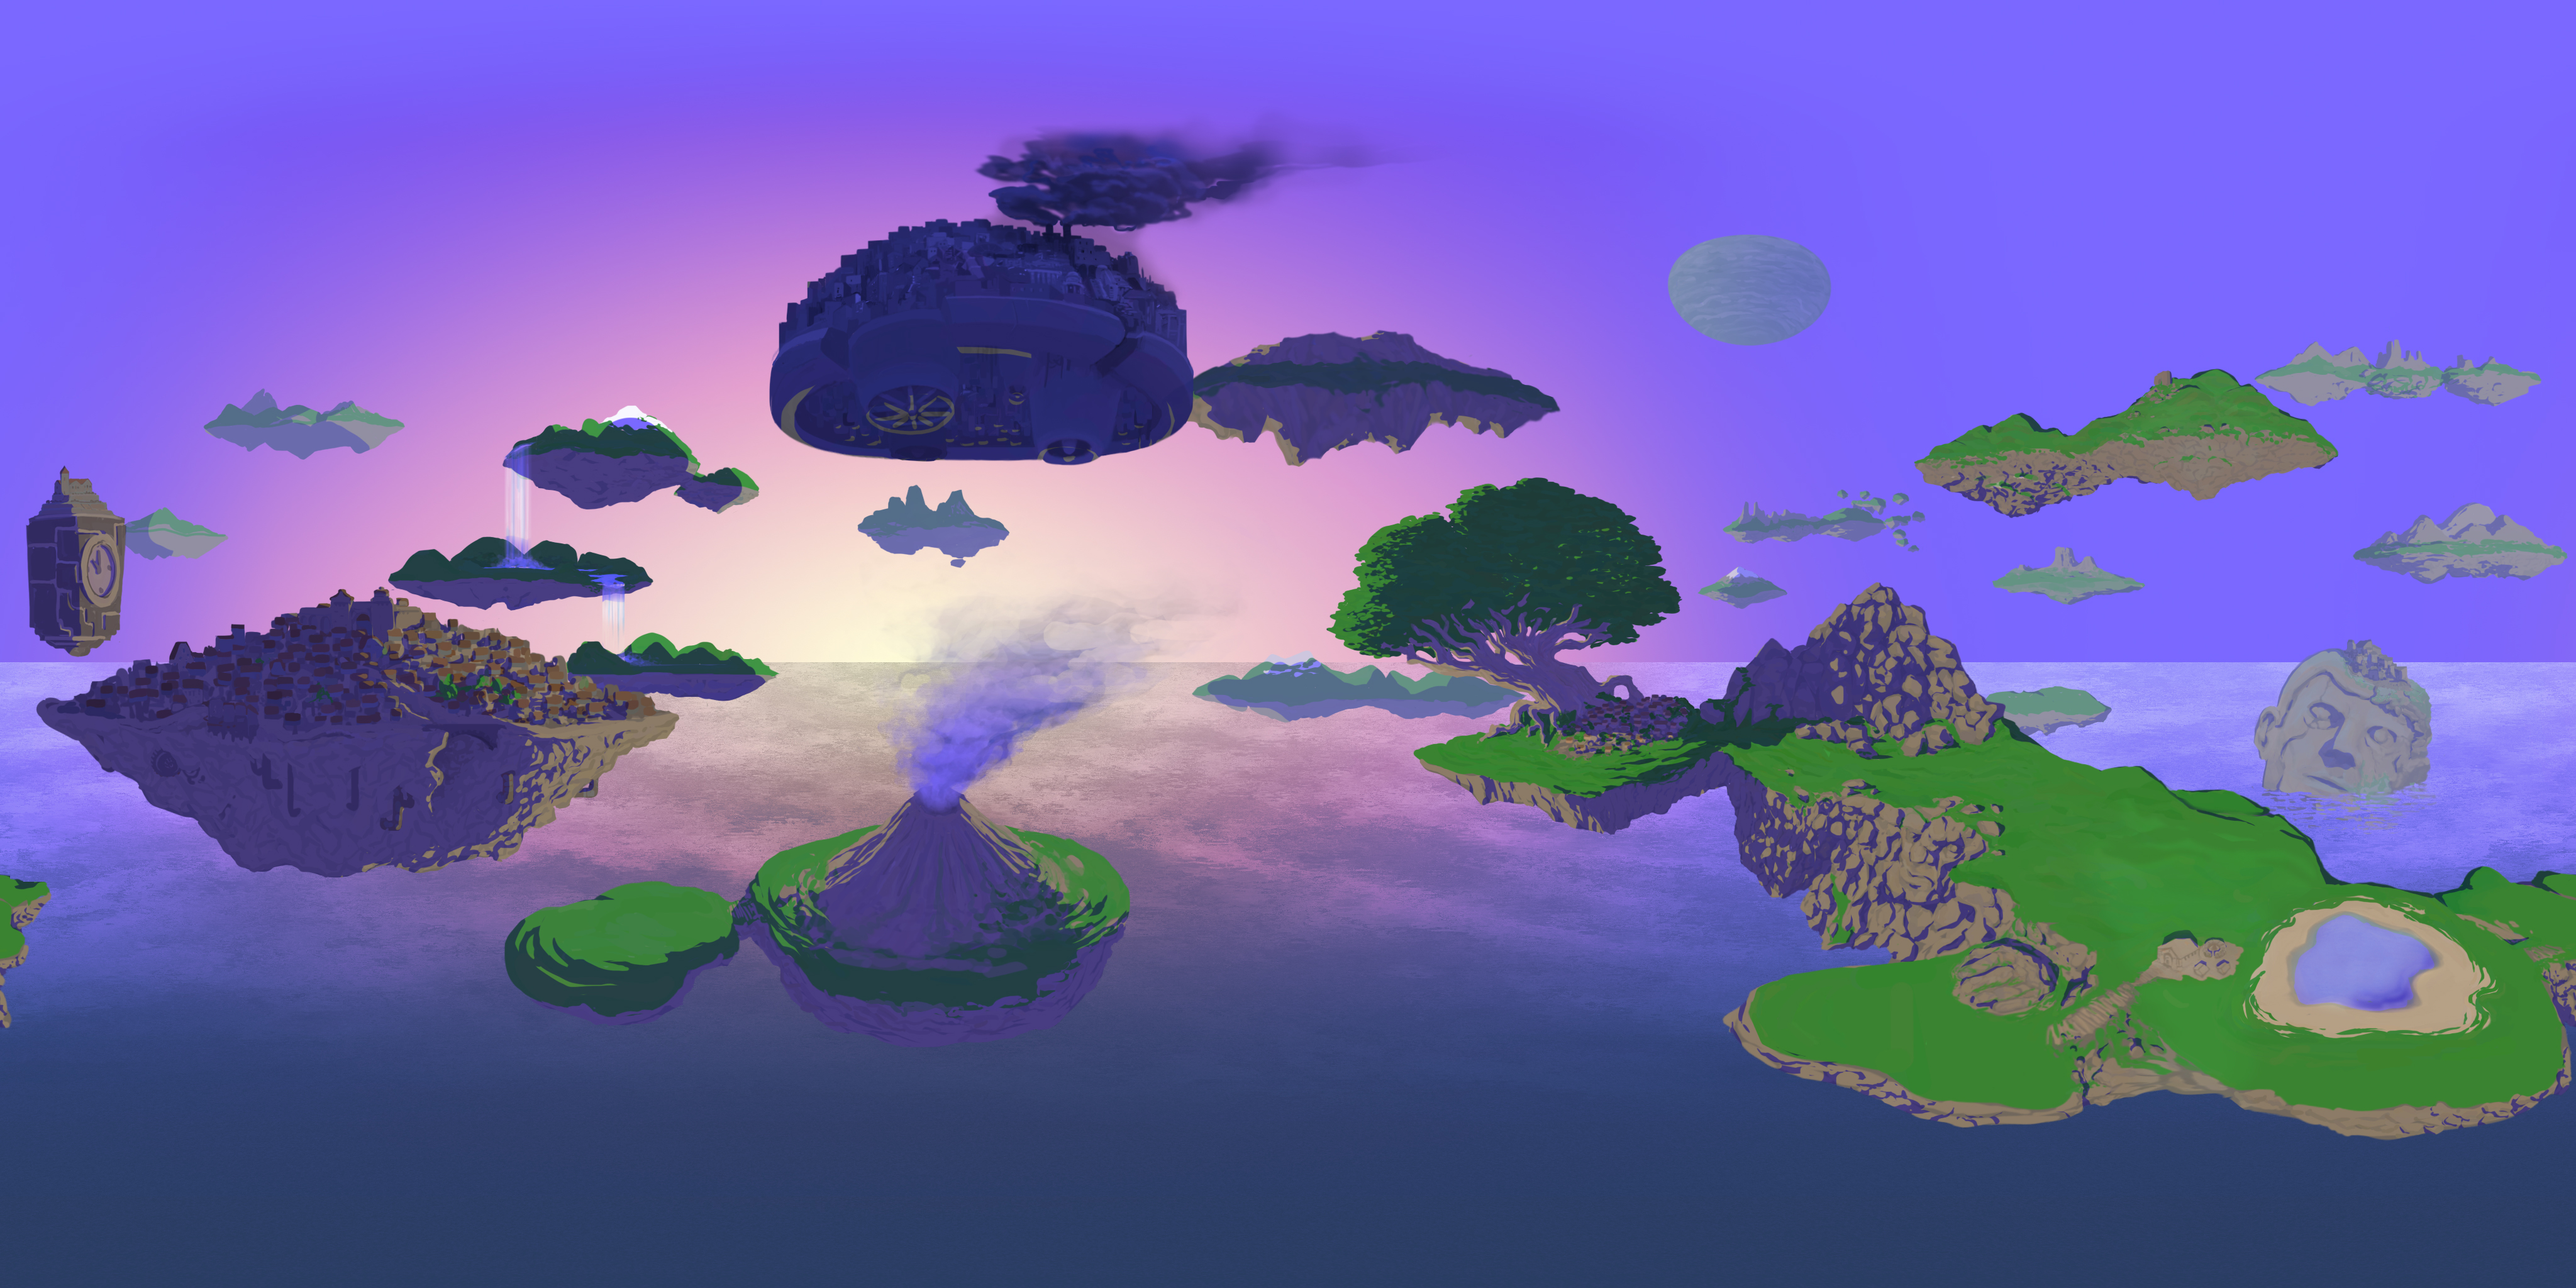
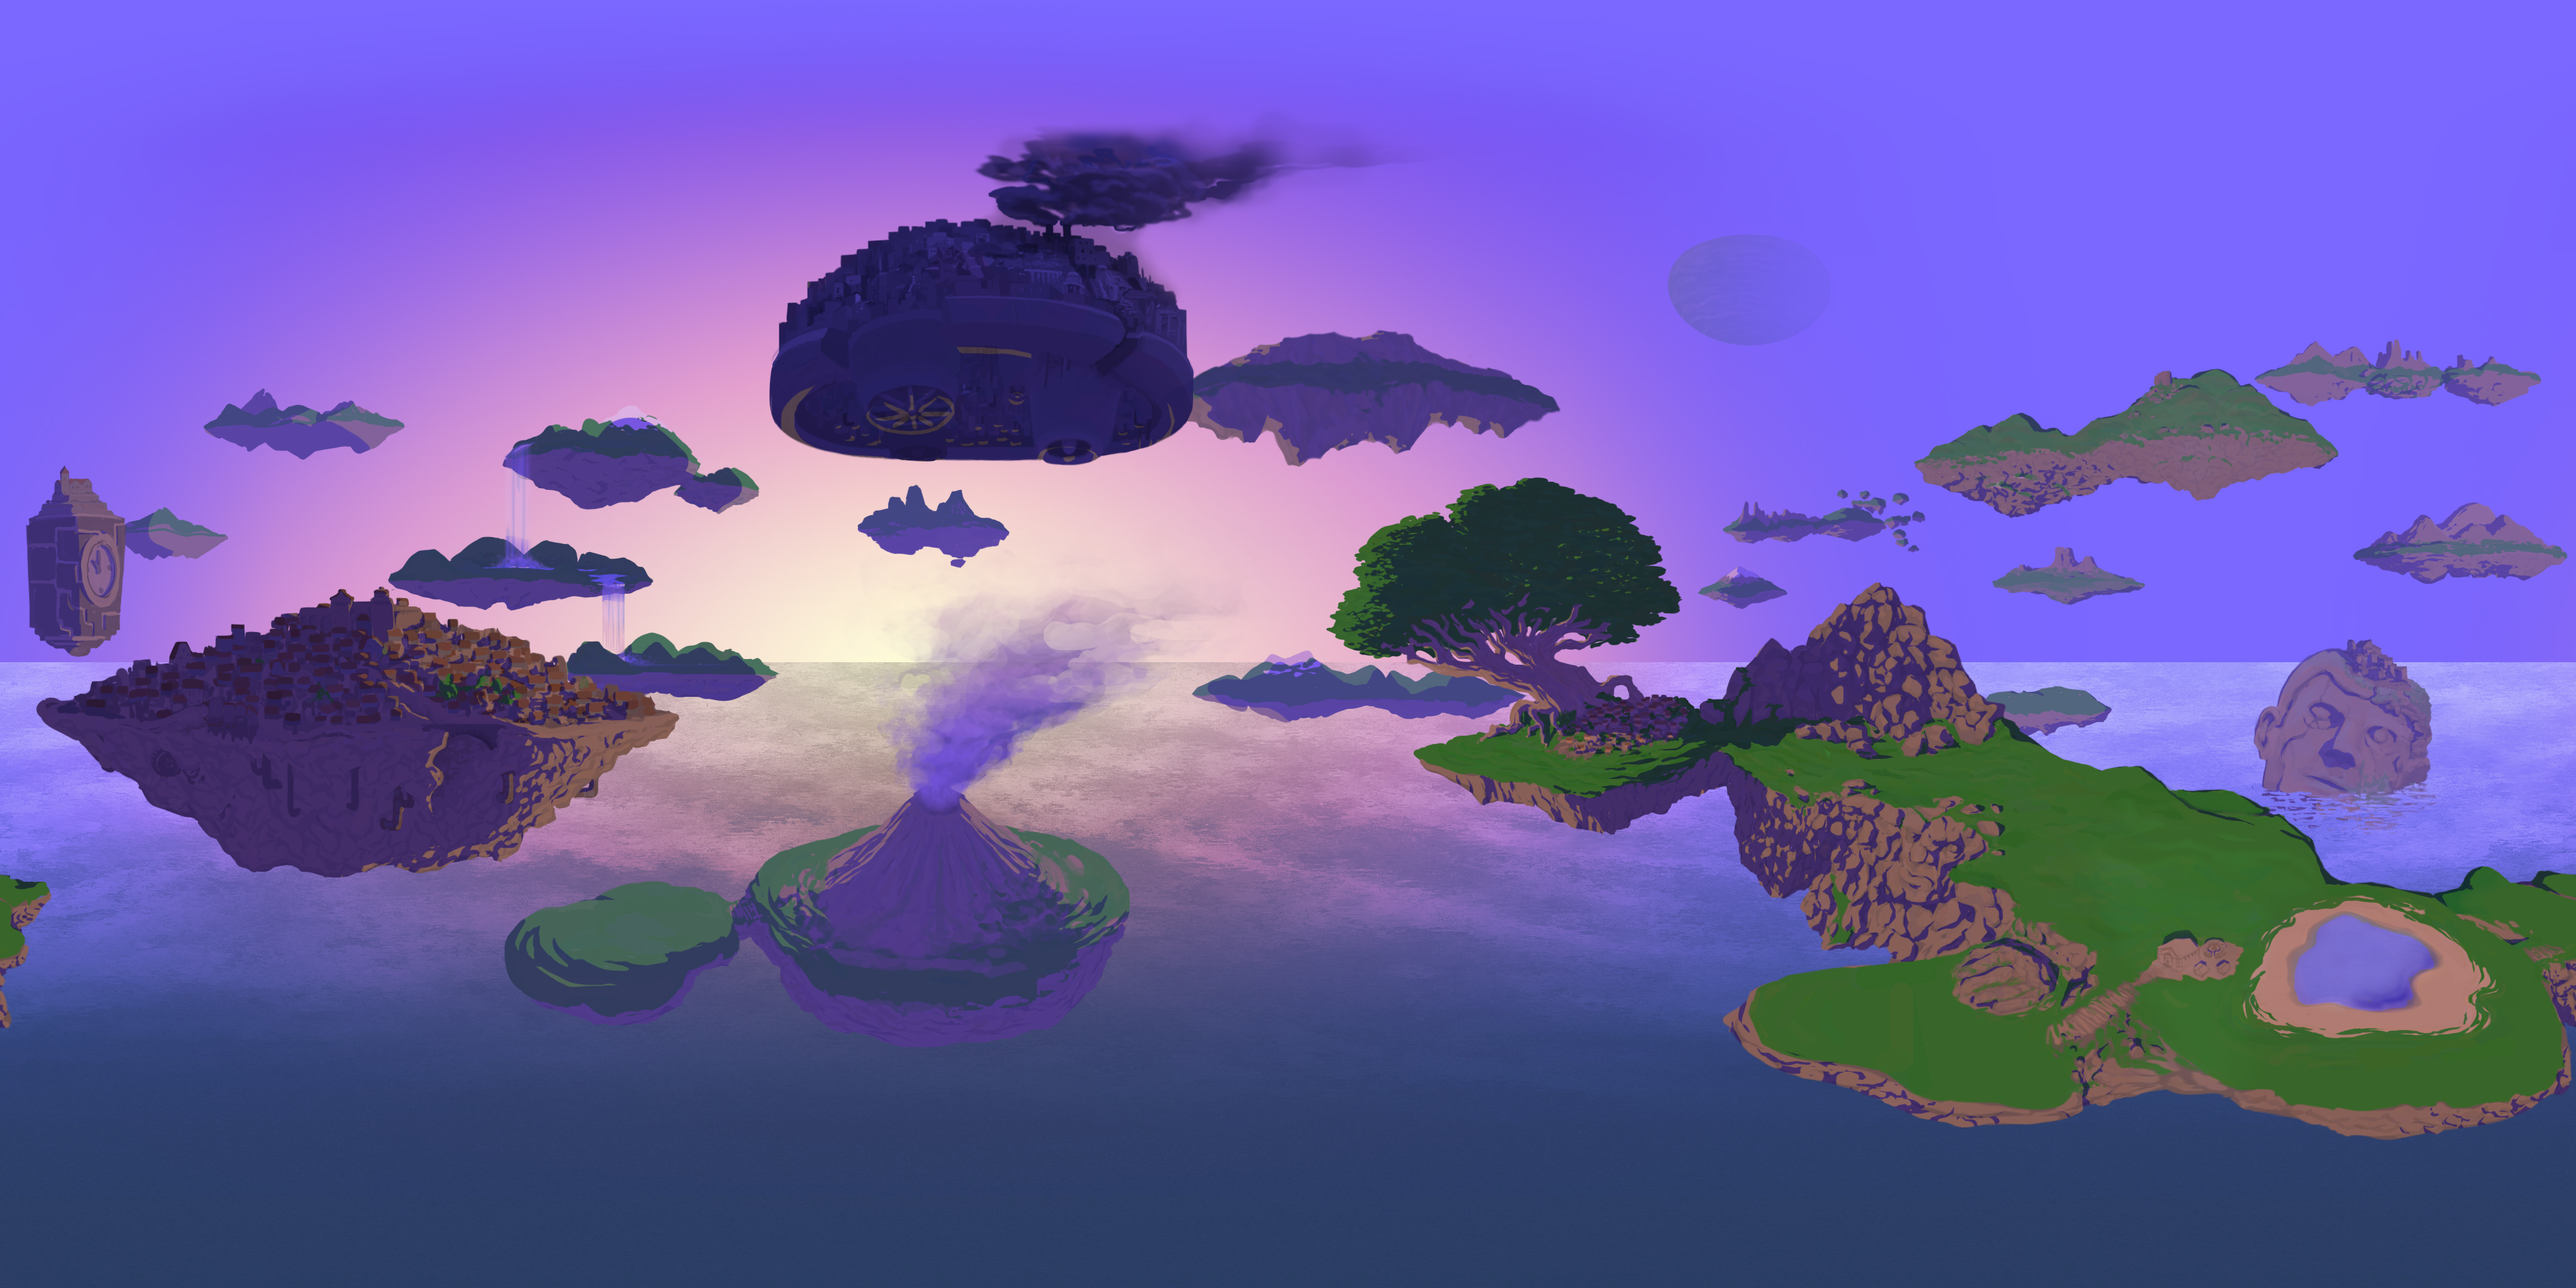
making the evening version landscape

diff --git a/test60secinteractives/index_soir.html b/test60secinteractives/index_soir.html
@@ -1,0 +1,253 @@
+<!DOCTYPE html>
+<html lang="en">
+<head>
+  <meta charset="utf-8">
+	<meta name="viewport" content="user-scalable=no, initial-scale=1">
+
+  <style>
+			body {
+				margin: 0px;
+				background-color: #000000;
+				overflow: hidden;
+			}
+  </style>
+</head>
+<body>
+  test
+
+  <div id="container"></div>
+
+
+  <script src="js/three.min.js"></script>
+  <script src="js/stats.min.js"></script>
+  <script src="js/DeviceOrientationControls.js"></script>
+
+  <script>
+    (function() {
+        "use strict";
+
+        // var stats = new Stats();
+        // stats.showPanel( 0 ); // 0: fps, 1: ms, 2: mb, 3+: custom
+        //
+        // // var xPanel = stats.addPanel( new Stats.Panel( 'x', '#ff8', '#221' ) );
+        // // var yPanel = stats.addPanel( new Stats.Panel( 'y', '#f8f', '#212' ) );
+        // // stats.showPanel( 3 );
+        //
+        // document.body.appendChild( stats.dom );
+
+        window.addEventListener('load', function() {
+
+            var container, camera, scene, renderer, controls, geometry, mesh, dirLight, hemiLight;
+            var t = 0;
+
+
+
+            container = document.getElementById( 'container' );
+
+            // camera = new THREE.PerspectiveCamera(50, window.innerWidth / window.innerHeight, 1, 1000);
+            // camera = new THREE.OrthographicCamera( window.innerWidth / - 2, window.innerWidth / 2, window.innerHeight / 2, window.innerHeight / - 2, 1, 1000 );
+
+            var rapportHL, cameraWidth;
+            cameraWidth = 175;
+            cameraWidth += window.innerWidth;
+            cameraWidth /= 3;
+            rapportHL = window.innerHeight/window.innerWidth;
+            // camera = new THREE.OrthographicCamera( -cameraWidth, cameraWidth, cameraWidth*rapportHL, -cameraWidth*rapportHL     , -500, 1500 );
+            camera = new THREE.PerspectiveCamera(35, window.innerWidth / window.innerHeight, 1, 1000);
+
+            controls = new THREE.DeviceOrientationControls( camera );
+
+
+            scene = new THREE.Scene();
+
+            var geometry = new THREE.SphereBufferGeometry( 500, 128, 64 );
+            geometry.scale( - 1.0, 1.0, 1.0 );
+            var colorsForLayersLandscape = new THREE.TextureLoader().load( 'Test3Plans_soir.jpg' );
+            // var colorsForLayersLandscape = new THREE.TextureLoader().load( 'Test3Plans_matin.jpg' );
+            colorsForLayersLandscape.magFilter = THREE.LinearFilter;
+            colorsForLayersLandscape.minFilter = THREE.LinearFilter;
+            var material = new THREE.MeshBasicMaterial( {
+                  // map: new THREE.TextureLoader().load( 'Test_01.jpg' )
+                  //color: 0xff00ff,
+                  map: colorsForLayersLandscape,
+            } );
+
+            var mesh = new THREE.Mesh( geometry, material );
+            scene.add( mesh );
+
+
+            var planeGroup = new THREE.Object3D();
+
+
+            var loader = new THREE.JSONLoader();
+
+            var plane;
+            loader.load( 'PlaneJSON/Plane_Propre_7_Fuselage.json', function( geometry, materials ) {
+                // var material = new THREE.MeshBasicMaterial( { color: 0xff00ff, side: THREE.BackSide, wireframe: true } );
+                // var material = materials[ 0 ];
+                plane = new THREE.Mesh( geometry, materials );
+
+                plane.castShadow = true;
+                plane.receiveShadow = true;
+
+                planeGroup.add( plane );
+            } );
+
+            var perso;
+            loader.load( 'PlaneJSON/Plane_Propre_7_Perso.json', function( geometry, materials ) {
+                perso = new THREE.Mesh( geometry, materials );
+
+                perso.castShadow = true;
+                perso.receiveShadow = true;
+
+                planeGroup.add( perso );
+            } );
+
+            var roues;
+            loader.load( 'PlaneJSON/Plane_Propre_7_Roues.json', function( geometry, materials ) {
+                roues = new THREE.Mesh( geometry, materials );
+
+                roues.castShadow = true;
+                roues.receiveShadow = true;
+
+                planeGroup.add( roues );
+            } );
+
+            var structure;
+            loader.load( 'PlaneJSON/Plane_Propre_7_Structure.json', function( geometry, materials ) {
+                structure = new THREE.Mesh( geometry, materials );
+
+                structure.castShadow = true;
+                structure.receiveShadow = true;
+
+                planeGroup.add( structure );
+            } );
+
+            var helice;
+            loader.load( 'PlaneJSON/Plane_Propre_7_Helice.json', function( geometry, materials ) {
+                //side: THREE.BackSide
+                // var material = materials[ 0 ];
+                helice = new THREE.Mesh( geometry, materials );
+
+                //mesh.position.z = -50;
+
+                helice.castShadow = true;
+                helice.receiveShadow = true;
+
+                planeGroup.add( helice );
+
+                geometry = new THREE.CircleBufferGeometry( 1.5, 16 );
+                material = new THREE.MeshBasicMaterial( { color: 0x303030, transparent: true, opacity: 0.25, side: THREE.DoubleSide, wireframe: false } );
+                var circle = new THREE.Mesh( geometry, material );
+
+                circle.position.x = +1.72;
+                circle.rotation.y = Math.PI/2;
+
+                planeGroup.add( circle );
+
+
+            } );
+            planeGroup.scale.set(8.5, 8.5, 8.5);
+            scene.add( planeGroup );
+
+            // var geometry = new THREE.BoxBufferGeometry( 100, 100, 100, 3, 3, 3 );
+            // var material = new THREE.MeshBasicMaterial( { color: 0xff00ff, transparent: true, opacity: 0.07, side: THREE.BackSide, wireframe: true } );
+            // var mesh = new THREE.Mesh( geometry, material );
+            // scene.add( mesh );
+
+            // LIGHTS
+
+            var ambientLight = new THREE.AmbientLight( 0xaaaacc );
+            scene.add( ambientLight );
+
+            //
+
+            hemiLight = new THREE.HemisphereLight( 0xffffff, 0xffffff, 0.6 );
+            hemiLight.color.setHSL( 0.6, 1, 0.6 );
+            hemiLight.groundColor.setHSL( 0, 0.5, 0.8 );
+            hemiLight.position.set( 0, 500, 0 );
+            scene.add( hemiLight );
+
+            //
+
+            dirLight = new THREE.DirectionalLight( 0xffffff, 1 );
+            dirLight.color.setHSL( 0.1, 1, 0.95 );
+            dirLight.position.set( -1, 1.75, 1 );
+            dirLight.position.multiplyScalar( 50 );
+            scene.add( dirLight );
+
+            dirLight.castShadow = true;
+
+            dirLight.shadow.mapSize.width = 512;
+            dirLight.shadow.mapSize.height = 512;
+
+            var d = 250;
+
+            dirLight.shadow.camera.left = -d;
+            dirLight.shadow.camera.right = d;
+            dirLight.shadow.camera.top = d;
+            dirLight.shadow.camera.bottom = -d;
+
+            dirLight.shadow.camera.near = -500;
+            dirLight.shadow.camera.far = 1500;
+            dirLight.shadow.bias = -0.0001;
+
+
+
+
+
+            // RENDERER
+
+            renderer = new THREE.WebGLRenderer( { antialias: true } );
+            renderer.setPixelRatio( window.devicePixelRatio );
+            renderer.setSize(window.innerWidth, window.innerHeight);
+            renderer.domElement.style.position = 'absolute';
+            renderer.domElement.style.top = 0;
+            container.appendChild(renderer.domElement);
+
+            renderer.shadowMap.enabled = true;
+            renderer.shadowMap.renderReverseSided = false;
+
+            window.addEventListener('resize', function() {
+
+                camera.aspect = window.innerWidth / window.innerHeight;
+                camera.updateProjectionMatrix();
+                renderer.setSize( window.innerWidth, window.innerHeight );
+
+            }, false);
+
+            var animate = function(){
+
+                // stats.begin();
+
+                window.requestAnimationFrame( animate );
+                controls.update();
+
+
+                var direction = camera.getWorldDirection();
+                camera.position.set(0,0,0);
+                camera.position.add( direction.multiplyScalar(-500) );
+
+
+
+
+                if (plane != null && helice != null) {
+                    planeGroup.rotation.x   += 0.01;
+                    planeGroup.rotation.y   += 0.002;
+                    helice.rotation.x   += 1.5;
+                }
+
+                renderer.render(scene, camera);
+
+                // stats.end();
+
+            };
+
+            window.requestAnimationFrame( animate );
+
+    	}, false);
+
+	})();
+  </script>
+</body>
+</html>
